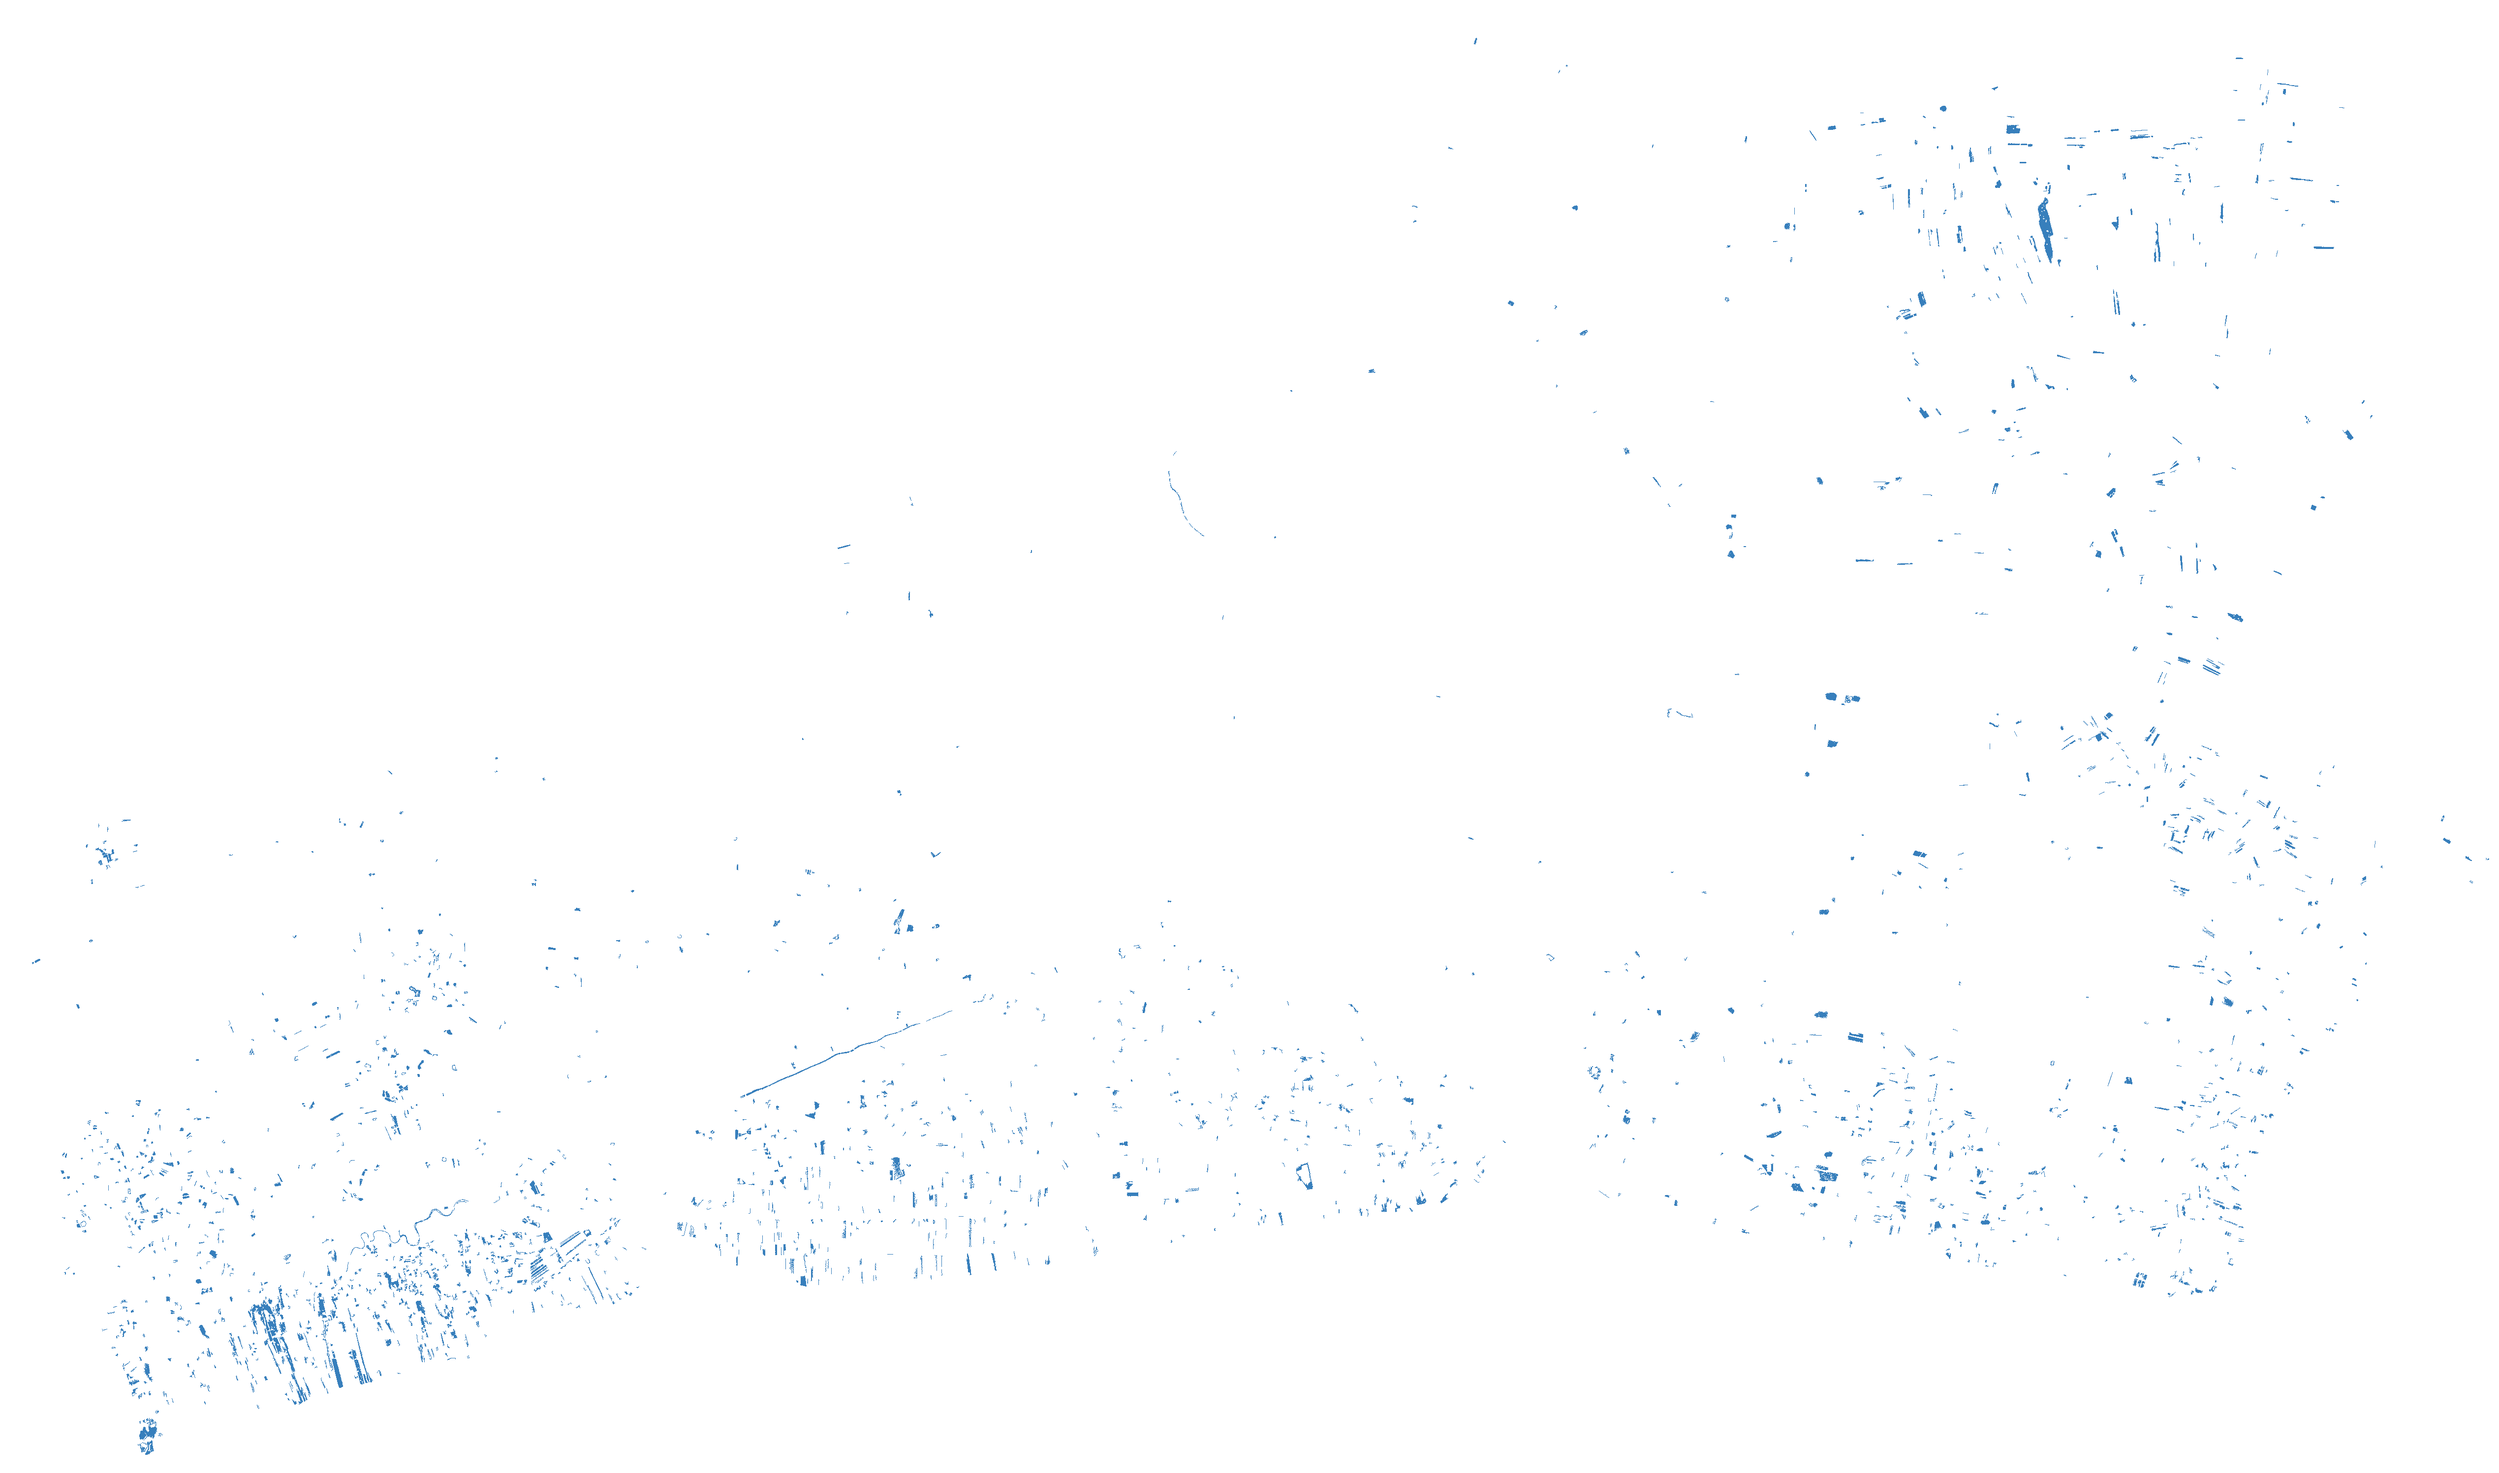
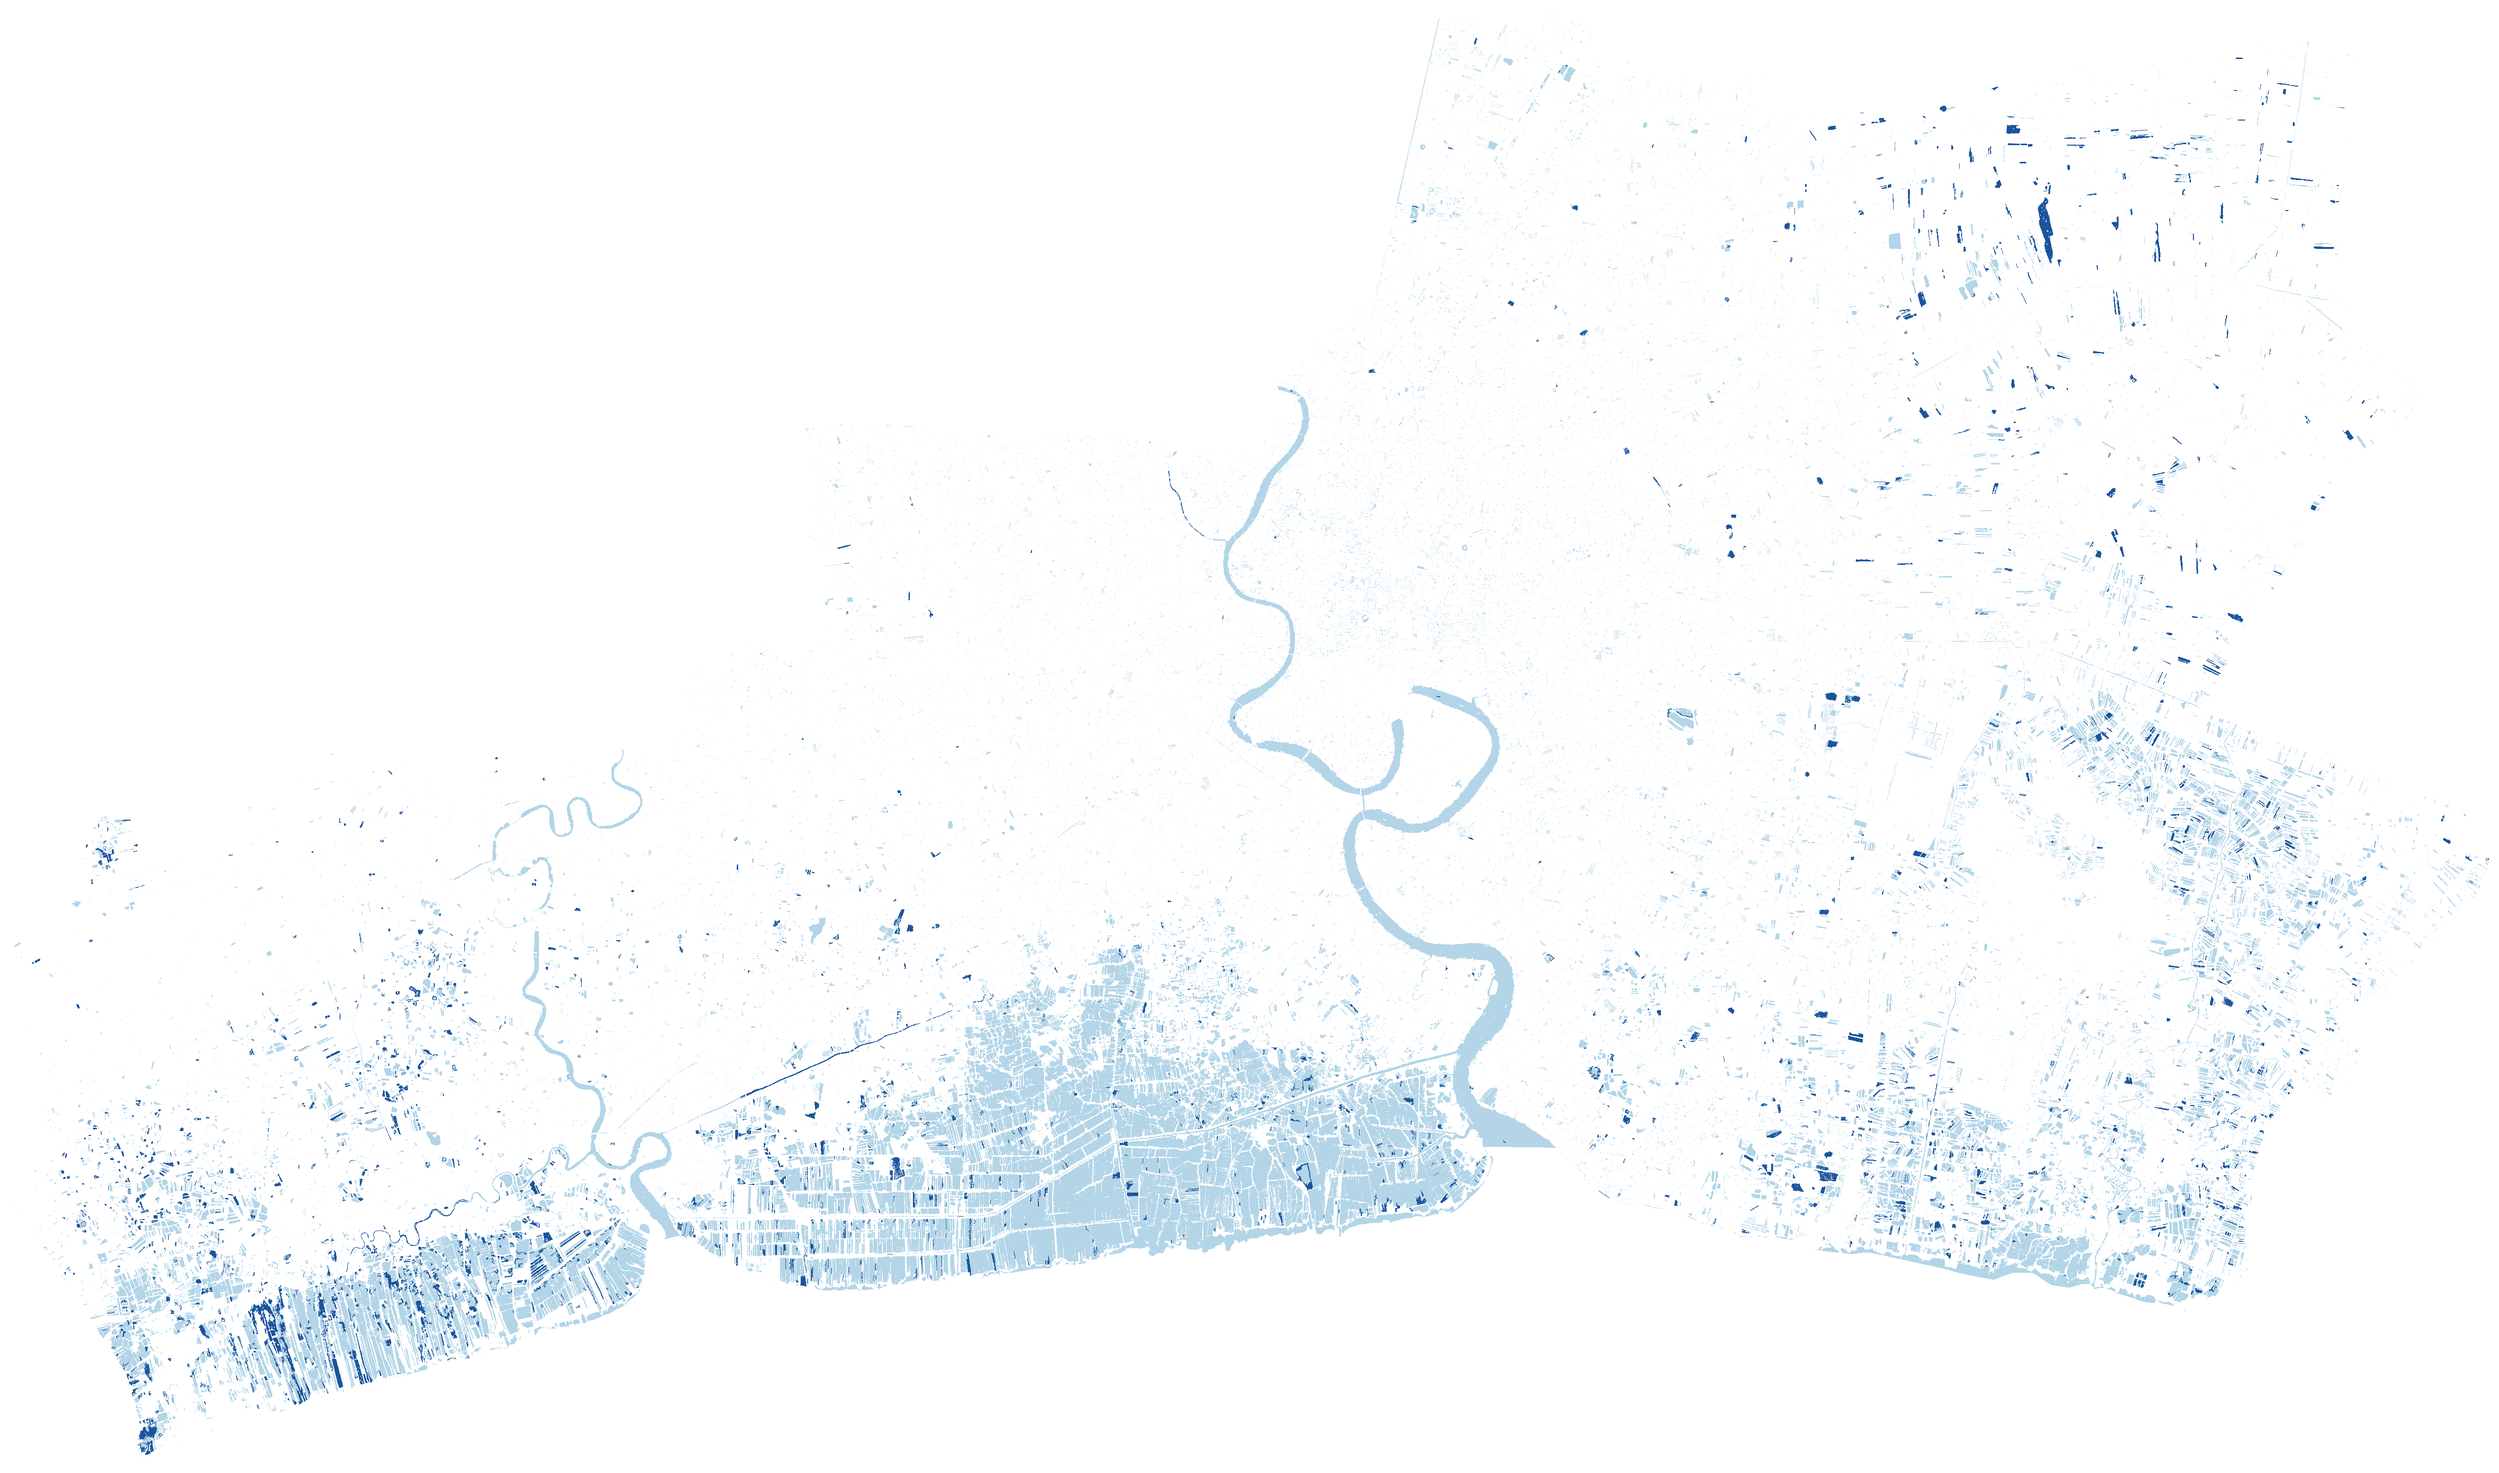
Show always-wet ponds/water alongside sea reach for today; cache-bust images
Claude-Session: https://claude.ai/code/session_01FiiJ9Vao5pznzgtCE7Jjx1

diff --git a/index.html b/index.html
@@ -248,7 +248,7 @@ const I18N = {
     depthL: ['10–30 ซม.', '30–60 ซม.', '60 ซม.–1 ม.', 'เกิน 1 ม.'],
     flSum: (a, p, b, s) => `น้ำท่วม <b>${a}</b> ตร.กม. มีคนอยู่ราว <b>${p}</b> คน อาคาร <b>${b}</b> หลัง${s > 0 ? ` (น้ำทะเลสูงขึ้น ${s} ซม. จากปี 2567)` : ''}`,
     flCmp: (d) => d > 0 ? `ถ้าหยุดทรุดวันนี้ พื้นที่ท่วมจะน้อยลง <b>${d}</b> ตร.กม.` : '',
-    tideCls: 'น้ำทะเลขึ้นถึงจริง (ภาพดาวเทียมตอนน้ำขึ้นสูง)',
+    tideCls: 'น้ำทะเลขึ้นถึงจริง (ภาพดาวเทียมตอนน้ำขึ้นสูง)', tidePerm: 'บ่อ นาเกลือ และแหล่งน้ำที่มีน้ำอยู่ตลอด',
     tideSum: (d, w, a, p, b, s) => `ภาพ ${s} วันที่ ${+d.slice(6)}/${+d.slice(4, 6)}/${+d.slice(0, 4) + 543} เวลาราว 10:35 น. ระดับน้ำราว +${w} ม. น้ำทะเลขึ้นถึงแผ่นดินแค่ <b>${a}</b> ตร.กม. เป็นจุดกระจาย มีคนอยู่ราว <b>${p}</b> คน อาคาร <b>${b}</b> หลัง`,
     tideNote: 'แยกน้ำด้วยดัชนี MNDWI เทียบกับภาพตอนน้ำลง ไม่นับบ่อและแหล่งน้ำที่มีน้ำอยู่ตลอด มองน้ำใต้ป่าชายเลนและร่มไม้ไม่เห็น และบอกความลึกไม่ได้',
     tideT: d => `ภาพน้ำขึ้นสูง ${+d.slice(6)}/${+d.slice(4, 6)}/${+d.slice(0, 4) + 543}`, tideAns: ['น้ำไม่ถึง', 'น้ำทะเลขึ้นถึง', 'มีน้ำอยู่ตลอด (บ่อ/แหล่งน้ำ)'],
@@ -292,7 +292,7 @@ const I18N = {
     depthL: ['10–30 cm', '30–60 cm', '60 cm–1 m', 'over 1 m'],
     flSum: (a, p, b, s) => `Flooded <b>${a}</b> km², about <b>${p}</b> people and <b>${b}</b> buildings${s > 0 ? ` (sea ${s} cm higher than 2024)` : ''}`,
     flCmp: (d) => d > 0 ? `If sinking stopped today, <b>${d}</b> km² less would flood` : '',
-    tideCls: 'Reached by the sea (satellite image at high tide)',
+    tideCls: 'Reached by the sea (satellite image at high tide)', tidePerm: 'Ponds, salt pans and water that are always wet',
     tideSum: (d, w, a, p, b, s) => `${s} image of ${+d.slice(6)}/${+d.slice(4, 6)}/${d.slice(0, 4)} at about 10:35, water about +${w} m: the sea reached only <b>${a}</b> km² of land, in scattered patches, home to about <b>${p}</b> people and <b>${b}</b> buildings`,
     tideNote: 'Water detected with the MNDWI index and compared with a low-tide image; ponds and water bodies that are always wet are not counted. Water under mangroves or trees is not visible, and depth is not measured.',
     tideT: d => `High-tide image ${+d.slice(6)}/${+d.slice(4, 6)}/${d.slice(0, 4)}`, tideAns: ['Not reached', 'Reached by the sea', 'Always water (pond/water body)'],
@@ -443,7 +443,7 @@ const fmt = (x, d = 1) => x.toLocaleString(lang === 'th' ? 'th-TH' : 'en-GB', { 
 function legendHTML() {
   if (mode === 'slr' && slrYear === NOW && meta.tide) {
     const t = meta.tide, d = t.main_event;
-    return `<div class="swl"><i style="background:#2171b5"></i><span>${T('tideCls')}</span></div>
+    return `<div class="swl"><i style="background:#084594"></i><span>${T('tideCls')}</span><i style="background:#9ecae1"></i><span>${T('tidePerm')}</span></div>
       <p class="slr-sum">${T('tideSum')(d, t.water_level_m, Math.round(t.tidal_km2).toLocaleString(), t.population.toLocaleString(), t.buildings.toLocaleString(), t.sensor)}</p>
       <p class="slr-sum">${T('tideNote')}</p>`;
   }
@@ -506,7 +506,7 @@ async function showFlood() {
   if (map.getLayer('ss-tide')) map.setLayoutProperty('ss-tide', 'visibility', mode === 'slr' && isNow ? 'visible' : 'none');
   map.setLayoutProperty('ss-slr', 'visibility', mode === 'slr' && !isNow ? 'visible' : 'none');
   if (isNow) {
-    if (!tideGrid && meta.tide) tideGrid = new Uint8Array(await fetch('tide.bin').then(r => r.arrayBuffer()));
+    if (!tideGrid && meta.tide) tideGrid = new Uint8Array(await fetch(`tide.bin?v=${meta.v}`).then(r => r.arrayBuffer()));
     if (mode === 'slr') $('legend').innerHTML = legendHTML();
     if (last) showCard(last);
     return;
@@ -722,7 +722,7 @@ function setMode(m) {
 }
 
 map.on('load', async () => {
-  [meta, series, districtsGeo] = await Promise.all(['meta.json', 'series.json', 'districts.geojson'].map(f => fetch(f).then(r => r.json())));
+  [meta, series, districtsGeo] = await Promise.all(['meta.json', 'series.json', 'districts.geojson'].map(f => fetch(f, { cache: 'no-cache' }).then(r => r.json())));
   const buf = await fetch('grid.bin').then(r => r.arrayBuffer());
   grid = { ...meta.grid, data: new Int16Array(buf) };
   try { uncGrid = new Int16Array(await fetch('unc.bin').then(r => r.arrayBuffer())); } catch (err) { uncGrid = null; }
@@ -747,7 +747,7 @@ map.on('load', async () => {
     $('m-risk').hidden = false;
   }
   if (meta.tide) {
-    map.addSource('ss-tide', { type: 'image', url: 'tide.png', coordinates: meta.tide.image });
+    map.addSource('ss-tide', { type: 'image', url: `tide.png?v=${meta.v}`, coordinates: meta.tide.image });
     map.addLayer({ id: 'ss-tide', type: 'raster', source: 'ss-tide', layout: { visibility: 'none' }, paint: { 'raster-resampling': 'nearest', 'raster-opacity': .9 } }, firstSymbol);
   }
   if (meta.sfl) {
